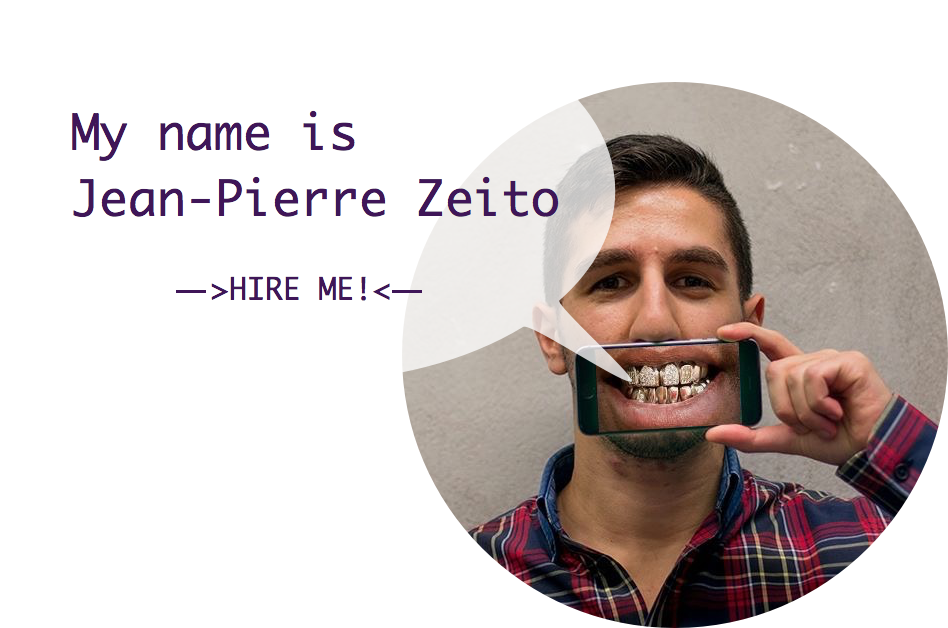
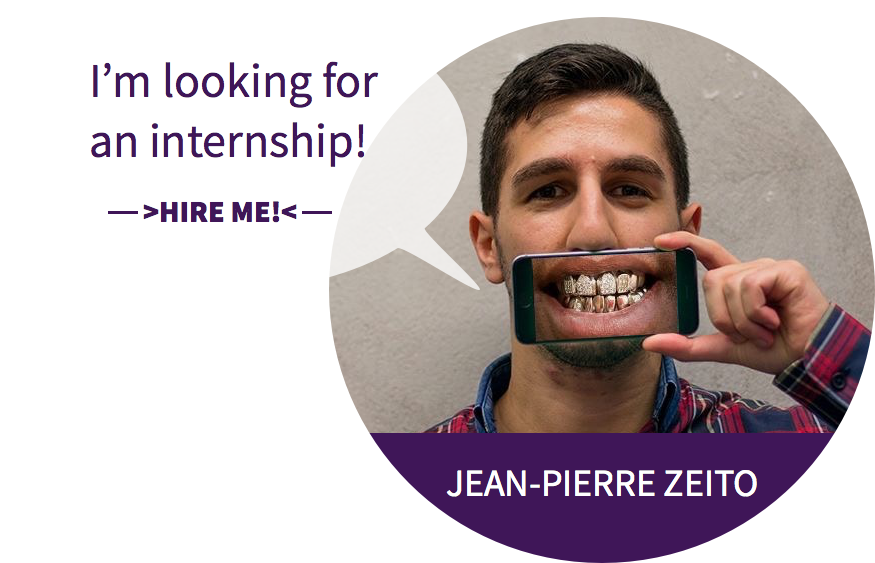
v.3.0

diff --git a/css/main.css b/css/main.css
@@ -36,6 +36,7 @@ html, body {
 	font-size: 68px;
 }
 
+
 #hello {
   white-space: nowrap;
   overflow: hidden;
@@ -70,6 +71,15 @@ span{
 ::selection{
   background: black;
 }
+
+.purple #jp {
+	font-family: source sans pro, serif;
+	font-weight: 300;
+	color: white;
+	font-size: 50px;
+	margin-bottom: 10%;
+}
+
 
 #producer {
   white-space: nowrap;
